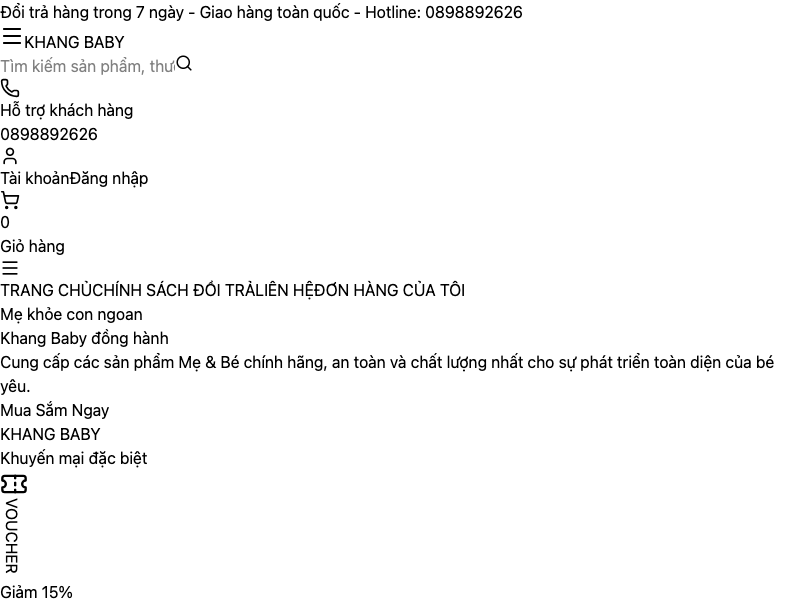
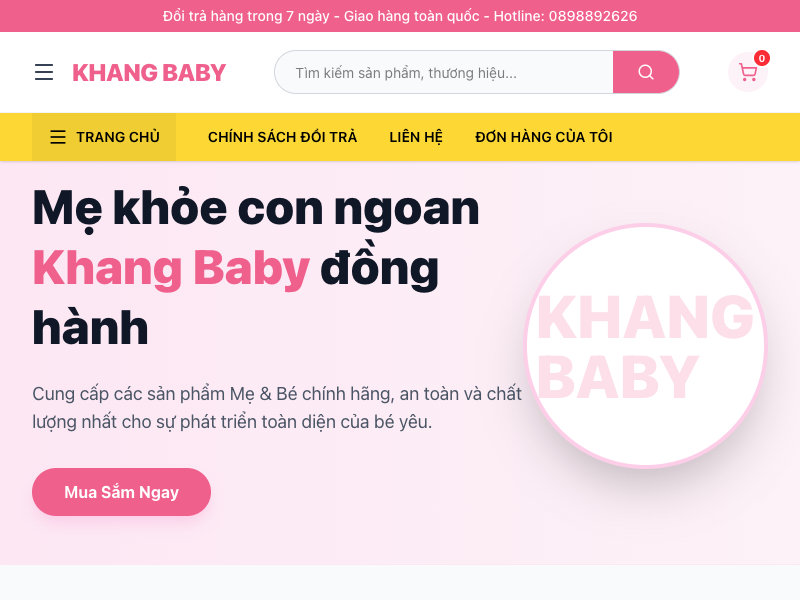
Update

diff --git a/back-end/src/services/orderService.js b/back-end/src/services/orderService.js
@@ -172,12 +172,30 @@ async function completeOrder(id) {
 
 // Generate order ID
 async function generateOrderId() {
+  const date = new Date();
+  const yy = date.getFullYear().toString().slice(2, 4);
+  const mm = String(date.getMonth() + 1).padStart(2, '0');
+  const dd = String(date.getDate()).padStart(2, '0');
+  const prefix = `HD${yy}${mm}${dd}`;
+
+  // Lấy mã đơn hàng lớn nhất trong ngày hiện tại để tăng dần
   const [rows] = await pool.query(`
-    SELECT COUNT(*) as count FROM don_hang_online WHERE DATE(ngay_dat) = CURDATE()
-  `);
-  const count = rows[0].count + 1;
-  const today = new Date().toISOString().slice(2, 4) + new Date().toISOString().slice(5, 7);
-  return `HD${today}${String(count).padStart(4, '0')}`;
+    SELECT ma_don FROM don_hang_online 
+    WHERE ma_don LIKE ? 
+    ORDER BY ma_don DESC 
+    LIMIT 1
+  `, [`${prefix}%`]);
+
+  let count = 1;
+  if (rows.length > 0 && rows[0].ma_don) {
+    const lastMaDon = rows[0].ma_don;
+    const lastCount = parseInt(lastMaDon.slice(prefix.length), 10);
+    if (!isNaN(lastCount)) {
+      count = lastCount + 1;
+    }
+  }
+  
+  return `${prefix}${String(count).padStart(4, '0')}`;
 }
 
 // Get pending orders count
